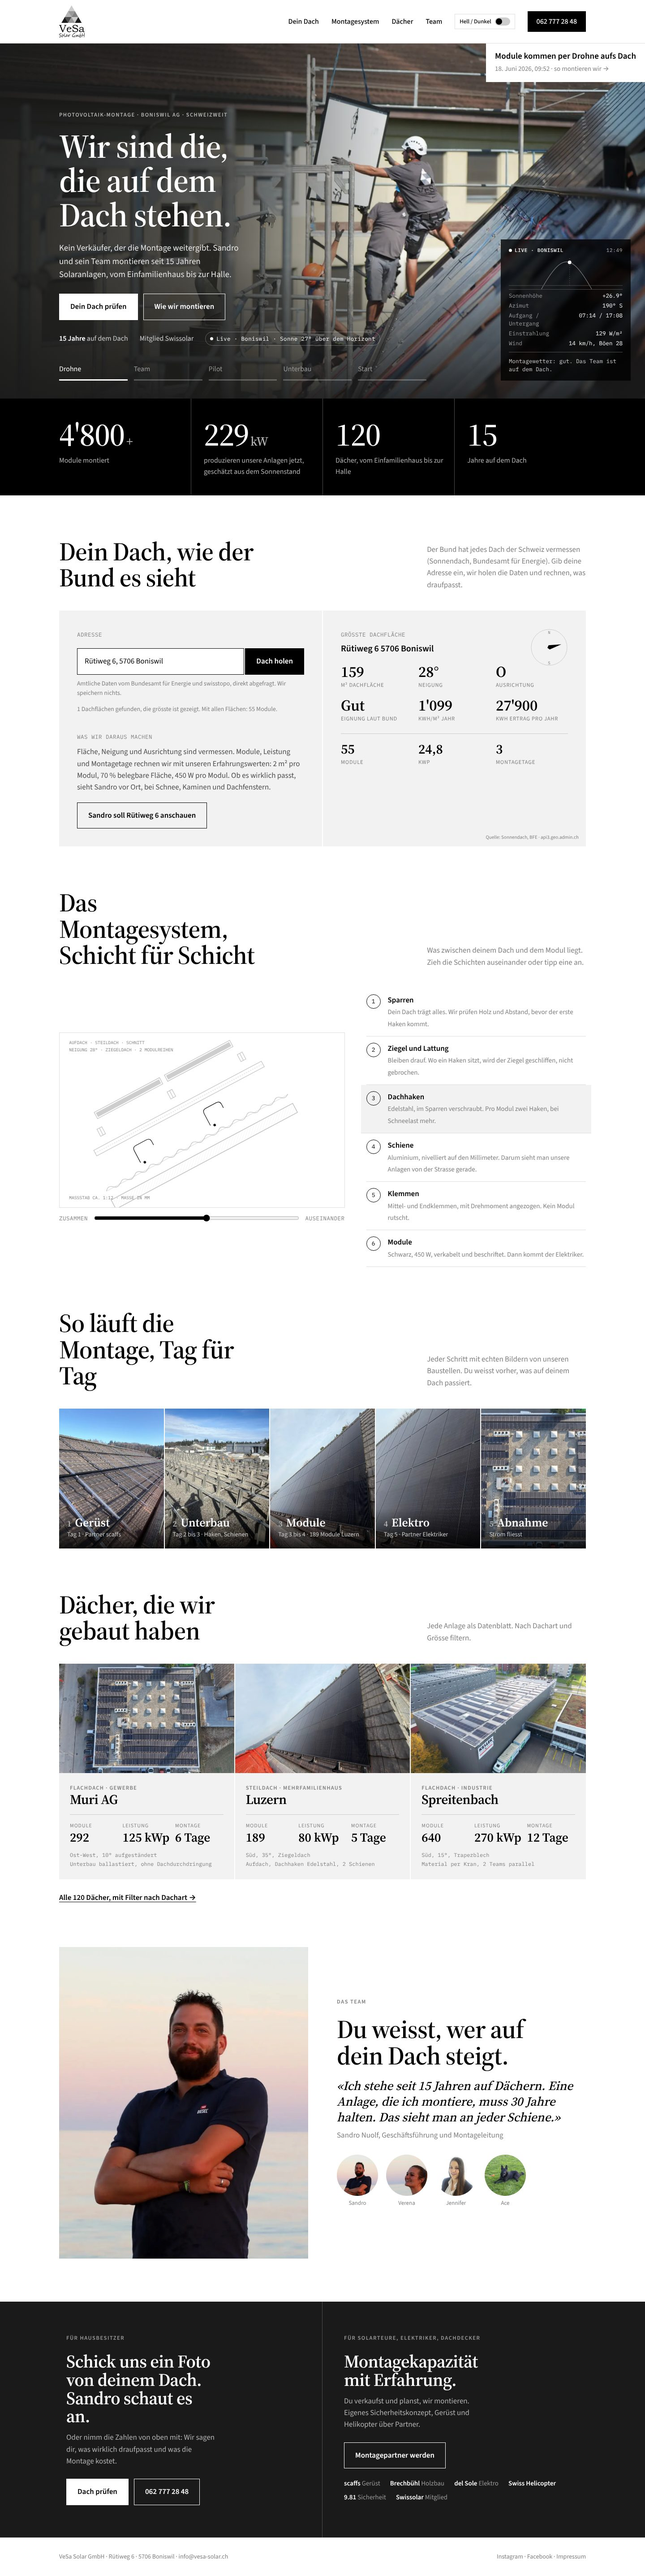
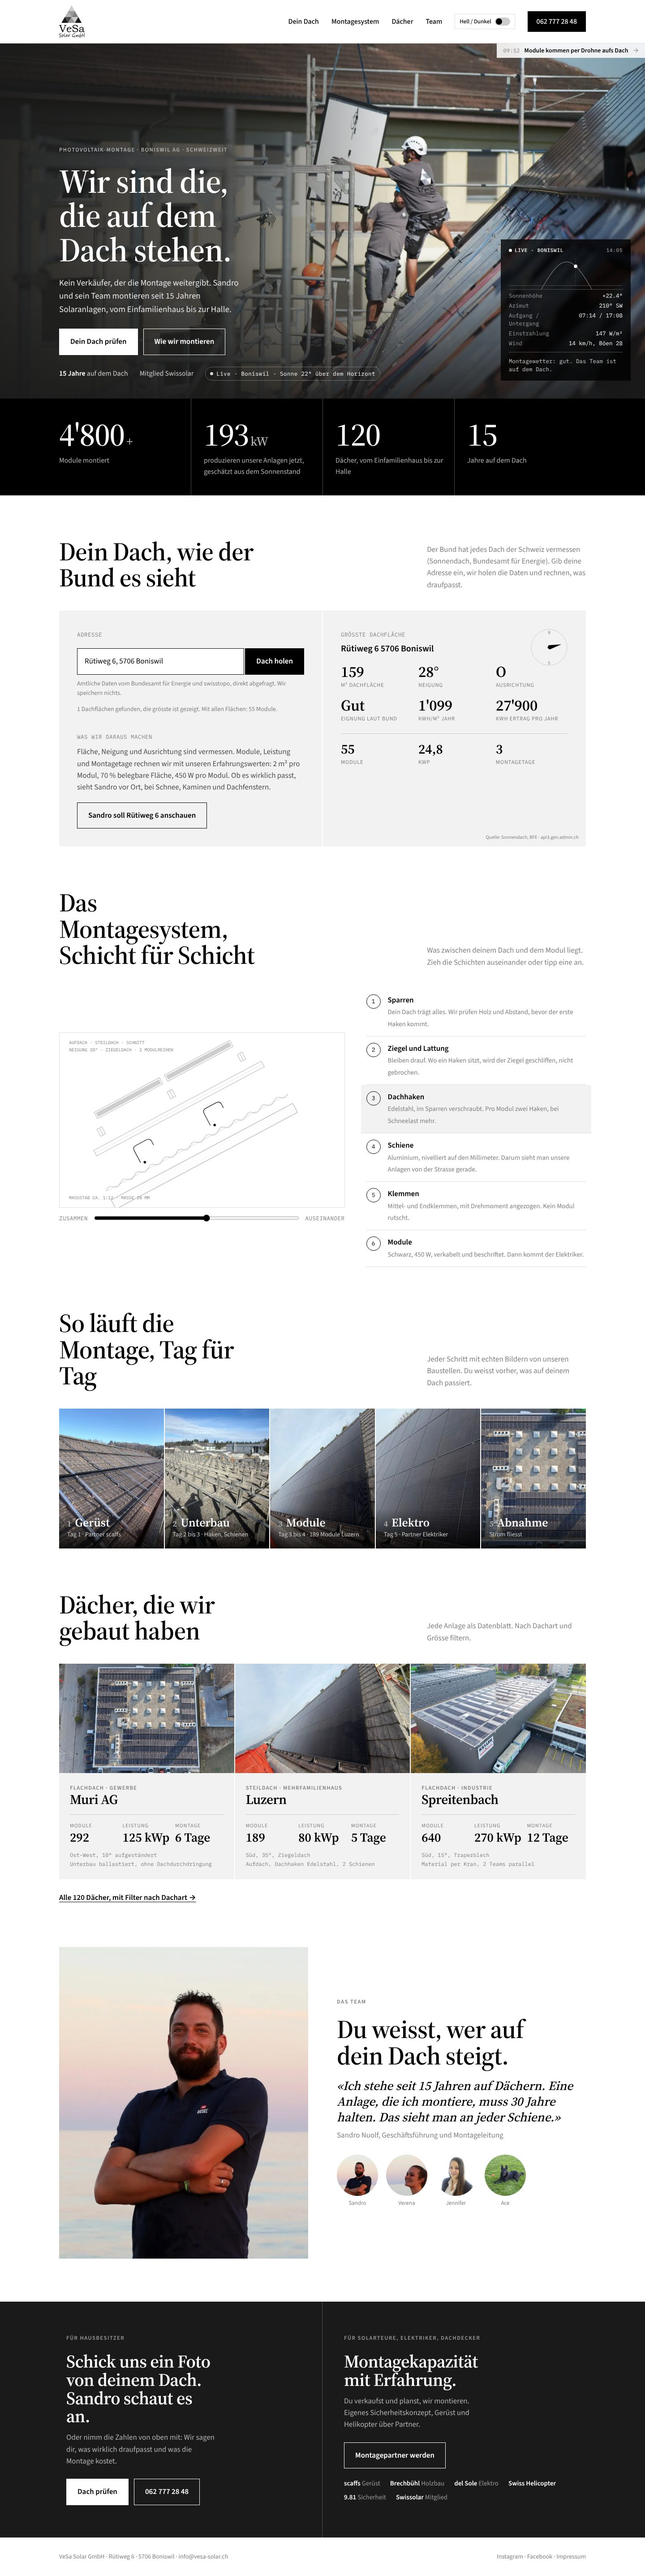
Entwurf E: Balken im Kopf entfernt, Karte als dünne Zeile, Variante ohne Karte (VES-022)
Claude-Session: https://claude.ai/code/session_01AmTsxfm8VPSTvFxMghAZew

Changed region(s): [[0.0938, 0.0312, 0.375, 0.1558], [0.75, 0.0, 1.0, 0.0312], [0.3438, 0.1558, 0.375, 0.1869]]

diff --git a/entwuerfe/entwurf-e.html b/entwuerfe/entwurf-e.html
@@ -174,20 +174,13 @@ footer .wrap{display:flex;justify-content:space-between;flex-wrap:wrap;gap:10px}
 .trust b{color:#fff;font-weight:600}
 .chip{font-family:"IBM Plex Mono",monospace;font-size:12.5px;letter-spacing:.03em;border:1px solid rgba(255,255,255,.3);padding:5px 10px;border-radius:999px;color:#fff}
 .chip::before{content:"";display:inline-block;width:7px;height:7px;border-radius:50%;background:#fff;margin-right:7px;animation:blink 1.6s infinite;vertical-align:1px}
-.bars{display:grid;grid-template-columns:repeat(5,1fr);gap:14px;margin-top:40px;max-width:820px}
-.bars button{background:none;border:0;color:#999999;font:inherit;font-size:16px;text-align:left;padding:0;cursor:pointer}
-.bars button.on,.bars button:hover{color:#fff}
-.bars i{display:block;height:3px;background:rgba(255,255,255,.25);margin-top:10px;overflow:hidden}
-.bars u{display:block;height:100%;width:0;background:#fff}
-.bars button.done u{width:100%}
-.bars button.on u{animation:fill var(--dur,6s) linear forwards}
-.paused .bars button.on u{animation-play-state:paused}
 @keyframes fill{to{width:100%}}
-.cap{position:absolute;z-index:3;right:0;top:0;background:var(--bg);color:var(--fg);padding:14px 20px 16px;min-width:260px;max-width:380px}
-.cap b{display:block;font-size:19px;font-weight:600}
-.cap span{color:var(--mute);font-size:15px}
+.cap{position:absolute;z-index:3;right:0;top:0;display:flex;align-items:center;gap:10px;max-width:calc(100% - 24px);background:color-mix(in srgb,var(--bg) 88%,transparent);-webkit-backdrop-filter:blur(8px);backdrop-filter:blur(8px);color:var(--fg);padding:7px 14px;font-size:14px;line-height:1.3;white-space:nowrap}
+.cap b{font-weight:600;overflow:hidden;text-overflow:ellipsis}
+.cap #cap-s{font-family:"IBM Plex Mono",monospace;font-size:12px;color:var(--mute);letter-spacing:.02em}
+.cap .cap-l{color:var(--mute)}
+html[data-cap="ohne"] .cap{display:none}
 .hero2 .live{z-index:3;top:auto;bottom:40px;right:32px}
-html[data-hero="1"] .bars{display:none}
 @media(max-width:900px){
  .hero2{display:block;min-height:0}
  .slides{position:relative;height:50vh;min-height:330px;max-height:500px}
@@ -200,15 +193,11 @@ html[data-hero="1"] .bars{display:none}
  .h2txt .btn.p{display:block;text-align:center;border-radius:999px;padding:18px 24px;font-size:18px}
  .h2txt .btn.s2{display:none}
  .trust{margin-top:18px;font-size:14.5px;gap:8px 16px} .chip .c-lang{display:none}
- .bars{gap:10px;margin-top:24px}
- .bars button{font-size:14.5px}
- .cap{min-width:0;max-width:72%;padding:10px 16px 12px}
- .cap b{font-size:17px} .cap span{font-size:14px}
+ .cap{padding:6px 12px;font-size:13px;gap:8px} .cap #cap-s{font-size:11.5px}
  .hero2 .live{display:none}
  .slide img{object-position:var(--m,50% 50%)}
- .cap-l{display:none}
 }
-@media (prefers-reduced-motion:reduce){.slide,.slide img{transition:none}.bars button.on u{animation:none;width:100%}}
+@media (prefers-reduced-motion:reduce){.slide,.slide img{transition:none}}
 </style>
 </head>
 <body>
@@ -230,13 +219,13 @@ html[data-hero="1"] .bars{display:none}
 
 <div class="hero2" id="hero">
  <div class="slides" id="slides">
-  <figure class="slide on" data-t="Module kommen per Drohne aufs Dach" data-s="18. Juni 2026, 09:52" style="--d:60% 40%;--m:64% 40%"><img src="../fotos/auftrag/drohne-anflug-1600.webp" srcset="../fotos/auftrag/drohne-anflug-900.webp 900w, ../fotos/auftrag/drohne-anflug-1600.webp 1600w, ../fotos/auftrag/drohne-anflug-2400.webp 2400w" sizes="100vw" alt="Ein Solarmodul hängt an der Drohne, das Team nimmt es auf dem Gerüst an"></figure>
+  <figure class="slide on" data-t="Module kommen per Drohne aufs Dach" data-s="09:52" style="--d:60% 40%;--m:64% 40%"><img src="../fotos/auftrag/drohne-anflug-1600.webp" srcset="../fotos/auftrag/drohne-anflug-900.webp 900w, ../fotos/auftrag/drohne-anflug-1600.webp 1600w, ../fotos/auftrag/drohne-anflug-2400.webp 2400w" sizes="100vw" alt="Ein Solarmodul hängt an der Drohne, das Team nimmt es auf dem Gerüst an"></figure>
   <figure class="slide" data-t="Oben nimmt das Team sie an" data-s="10:10" style="--d:60% 35%;--m:66% 30%"><img src="../fotos/auftrag/team-geruest-1600.webp" srcset="../fotos/auftrag/team-geruest-900.webp 900w, ../fotos/auftrag/team-geruest-1600.webp 1600w, ../fotos/auftrag/team-geruest-2400.webp 2400w" sizes="100vw" alt="Zwei Monteure mit Helm auf dem Gerüst schauen dem nächsten Modul entgegen" loading="lazy"></figure>
   <figure class="slide" data-t="Der Pilot fliegt vom Kamin aus" data-s="09:44" style="--d:55% 40%;--m:52% 45%"><img src="../fotos/auftrag/pilot-kamin-1600.webp" srcset="../fotos/auftrag/pilot-kamin-900.webp 900w, ../fotos/auftrag/pilot-kamin-1600.webp 1600w, ../fotos/auftrag/pilot-kamin-2400.webp 2400w" sizes="100vw" alt="Der Drohnenpilot sitzt mit Helm und Fernsteuerung auf dem Kamin" loading="lazy"></figure>
-  <figure class="slide" data-t="Unterbau ab halb acht" data-s="07:33, Haken und Schienen" style="--d:50% 40%;--m:52% 40%"><img src="../fotos/auftrag/unterbau-morgen-1600.webp" srcset="../fotos/auftrag/unterbau-morgen-900.webp 900w, ../fotos/auftrag/unterbau-morgen-1600.webp 1600w, ../fotos/auftrag/unterbau-morgen-2400.webp 2400w" sizes="100vw" alt="Ein Monteur schraubt die Schienen der Unterkonstruktion auf das Ziegeldach" loading="lazy"></figure>
-  <figure class="slide" data-t="Drohne startklar" data-s="09:06, neben der Baustelle" style="--d:62% 50%;--m:74% 50%"><img src="../fotos/auftrag/drohne-startklar-1600.webp" srcset="../fotos/auftrag/drohne-startklar-900.webp 900w, ../fotos/auftrag/drohne-startklar-1600.webp 1600w, ../fotos/auftrag/drohne-startklar-2400.webp 2400w" sizes="100vw" alt="Zwei Männer stehen auf einer Wiese neben der startklaren Transportdrohne" loading="lazy"></figure>
+  <figure class="slide" data-t="Unterbau ab halb acht" data-s="07:33" style="--d:50% 40%;--m:52% 40%"><img src="../fotos/auftrag/unterbau-morgen-1600.webp" srcset="../fotos/auftrag/unterbau-morgen-900.webp 900w, ../fotos/auftrag/unterbau-morgen-1600.webp 1600w, ../fotos/auftrag/unterbau-morgen-2400.webp 2400w" sizes="100vw" alt="Ein Monteur schraubt die Schienen der Unterkonstruktion auf das Ziegeldach" loading="lazy"></figure>
+  <figure class="slide" data-t="Drohne startklar" data-s="09:06" style="--d:62% 50%;--m:74% 50%"><img src="../fotos/auftrag/drohne-startklar-1600.webp" srcset="../fotos/auftrag/drohne-startklar-900.webp 900w, ../fotos/auftrag/drohne-startklar-1600.webp 1600w, ../fotos/auftrag/drohne-startklar-2400.webp 2400w" sizes="100vw" alt="Zwei Männer stehen auf einer Wiese neben der startklaren Transportdrohne" loading="lazy"></figure>
  </div>
- <a class="cap" href="#system" id="cap"><b id="cap-t">Module kommen per Drohne aufs Dach</b><span><span id="cap-s">18. Juni 2026, 09:52</span><span class="cap-l"> · so montieren wir →</span></span></a>
+ <a class="cap" href="#system" id="cap"><span id="cap-s">09:52</span><b id="cap-t">Module kommen per Drohne aufs Dach</b><span class="cap-l">→</span></a>
  <div class="live" id="live">
    <div class="t"><b>Live · Boniswil</b><span id="lv-time">–</span></div>
    <div class="sun"><svg viewBox="0 0 260 70" id="sunpath"></svg></div>
@@ -255,13 +244,6 @@ html[data-hero="1"] .bars{display:none}
   <p>Kein Verkäufer, der die Montage weitergibt. Sandro und sein Team montieren seit 15 Jahren Solaranlagen, vom Einfamilienhaus bis zur Halle.</p>
   <div class="btns"><a class="btn p" href="#dach">Dein Dach prüfen</a><a class="btn s2" href="#system">Wie wir montieren</a></div>
   <div class="trust"><span><b>15 Jahre</b> auf dem Dach</span><span>Mitglied Swissolar</span><span class="chip" id="lv-chip">Live · Boniswil</span></div>
-  <div class="bars" id="bars" role="tablist" aria-label="Ein Montagetag in Bildern">
-   <button type="button" role="tab" class="on"><span>Drohne</span><i><u></u></i></button>
-   <button type="button" role="tab"><span>Team</span><i><u></u></i></button>
-   <button type="button" role="tab"><span>Pilot</span><i><u></u></i></button>
-   <button type="button" role="tab"><span>Unterbau</span><i><u></u></i></button>
-   <button type="button" role="tab"><span>Start</span><i><u></u></i></button>
-  </div>
  </div></div>
 </div>
 
@@ -501,7 +483,7 @@ sonnendach($('sdq').value);
 <script>
 /* ---------- Kopf: Foto (1) oder Slider (2) ---------- */
 (function(){
- const q=new URLSearchParams(location.search), mode=q.get('hero')||'2', r=document.documentElement; r.dataset.hero=mode;
+ const q=new URLSearchParams(location.search), mode=q.get('hero')||'2', r=document.documentElement; r.dataset.hero=mode; if(q.get('cap')) r.dataset.cap=q.get('cap');
  const hero=document.getElementById('hero'), slides=[...document.querySelectorAll('.slide')], bars=[...document.querySelectorAll('#bars button')];
  const capT=document.getElementById('cap-t'), capS=document.getElementById('cap-s');
  const DUR=6000; let i=0, tm=null;

diff --git a/LOGBUCH.md b/LOGBUCH.md
@@ -180,3 +180,17 @@ Die Vorgeschichte steht im formateins-Logbuch unter ENT-078 bis ENT-082.
   Adrian nimmt die Drive-Freigabe zurück. Desktop: Beim Unterbau-Bild liegt
   der Monteur unter dem Text, weil das Foto keinen Spielraum nach rechts
   hat.
+- [ ] **VES-022** · 03.11.2026 · **Balken weg, Karte dünn oder ohne**
+  (Adrian, Bildschirmfoto vom Handy mit eingekreister Karte: «Balken
+  entfernen. Auch der obere Balken ist dick. Zeig mir den Balken dünner und
+  einmal ganz ohne nur als Bild»). Die Balken unter dem Kopf (Drohne, Team,
+  Pilot, Unterbau, Start) sind entfernt, Markup und Stil. Der Slider wechselt
+  weiter alle 6 s und lässt sich wischen. Die Karte oben rechts ist jetzt
+  eine dünne Zeile: Uhrzeit in Mono, Titel, Pfeil, halb durchsichtig
+  hinterlegt, 29 px hoch statt rund 90 px; zu lange Titel werden mit «…»
+  gekürzt statt abgeschnitten (Adrians Bildschirmfoto zeigte den Titel
+  rechts abgeschnitten). Die Karte zeigt nur noch die Uhrzeit, ohne Datum
+  und Zusatz. Variante ohne Karte über `?cap=ohne`. Geprüft auf 375 und 390
+  px, hell und dunkel, Desktop, ohne Skriptfehler. Renderings
+  `entwuerfe/bilder/karte-duenn-ohne-*.jpg`. Offen: Adrian wählt dünn oder
+  ohne; heute steht dünn als Vorgabe in Entwurf E.
